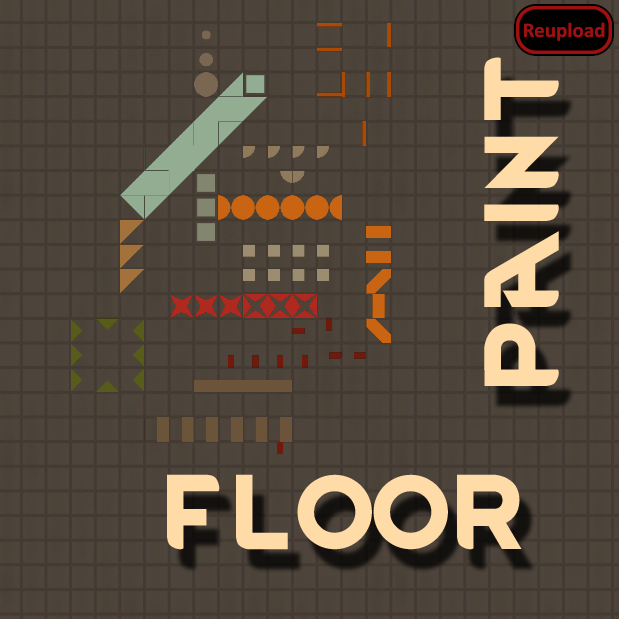
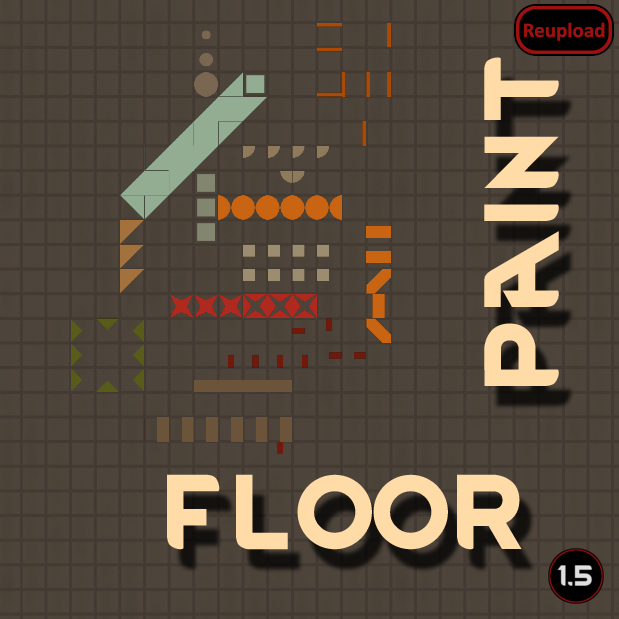
Mod updated for 1.5 and passed autotests

Changed region(s): [[0.8595, 0.8595, 0.9822, 0.9822]]

diff --git a/README.md b/README.md
@@ -45,11 +45,13 @@ so yeah have fun planting your decorations in your base or show the raids with a
 
 -  See if the the error persists if you just have this mod and its requirements active.
 -  If not, try adding your other mods until it happens again.
--  Post your error-log using https://steamcommunity.com/workshop/filedetails/?id=818773962]HugsLib and command Ctrl+F12
+-  Post your error-log using https://steamcommunity.com/workshop/filedetails/?id=818773962]HugsLib or the standalone https://steamcommunity.com/sharedfiles/filedetails/?id=2873415404]Uploader and command Ctrl+F12
 -  For best support, please use the Discord-channel for error-reporting.
 -  Do not report errors by making a discussion-thread, I get no notification of that.
 -  If you have the solution for a problem, please post it to the GitHub repository.
+-  Use https://github.com/RimSort/RimSort/releases/latest]RimSort to sort your mods
 
 
 
+https://steamcommunity.com/sharedfiles/filedetails/changelog/2361392101]![Image](https://img.shields.io/github/v/release/emipa606/SdFloorpaint?label=latest%20version&style=plastic&color=9f1111&labelColor=black)
 
